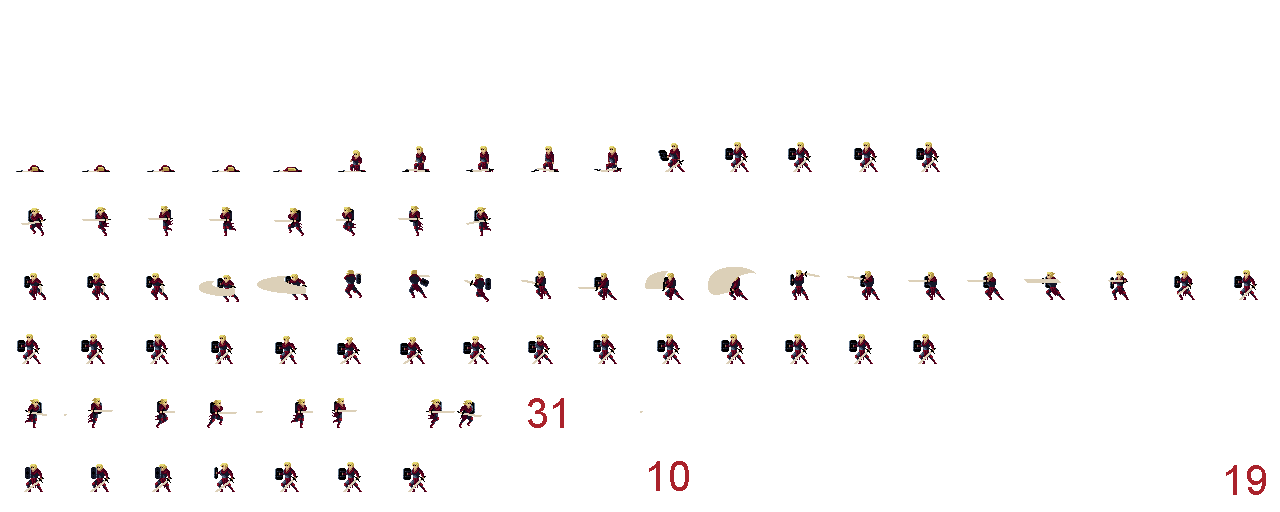
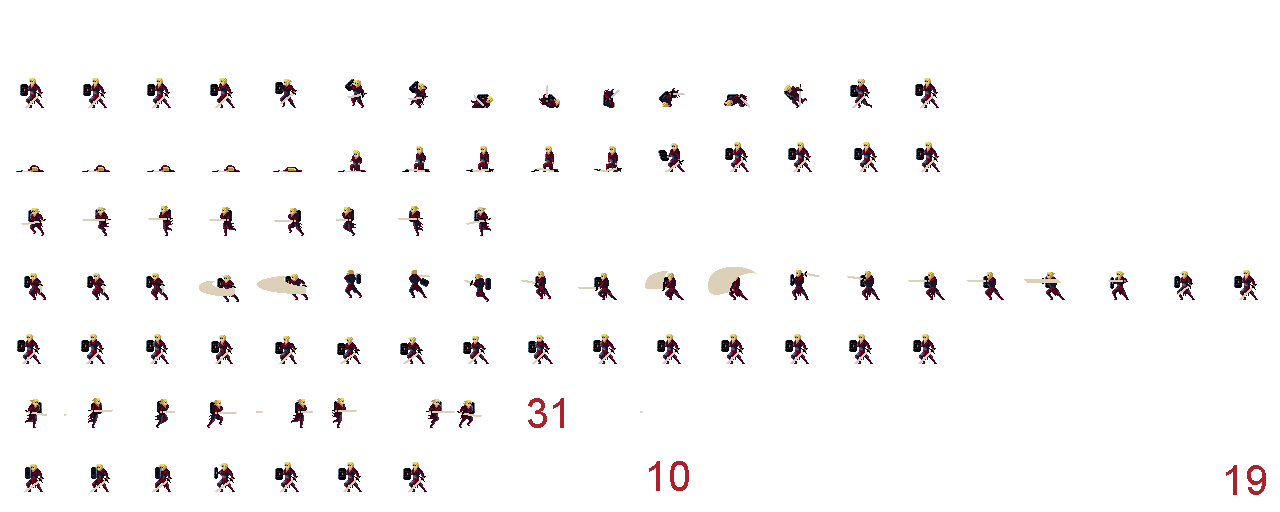
updated animations

diff --git a/game_map/character_definitions.go b/game_map/character_definitions.go
@@ -12,14 +12,11 @@ var CharacterDefinitions map[string]CharacterDefinition = map[string]CharacterDe
 			csStandby: {41, 42, 43, 44, 45, 46, 47, 48, 49, 50},
 			csMove:    {81, 82, 83, 88, 85, 86},
 			csRetreat: {21, 22, 23, 24, 25, 26},
-			csProne:   {5, 6},
-			csAttack: {
-				61, 62, 63, 64, 65, 66, 67, 68, 69, 70,
-				//71, 72, 73, 74, 75, 76, 77, 78, 79, 80,
-			},
+			csProne:   {4, 5, 6},
+			csAttack:  {61, 62, 63, 64, 65, 66, 67, 68, 69, 70},
 			csVictory: {71, 72, 73, 74, 75, 76, 77, 78, 79, 80},
-			csUse:     {10, 11, 12, 13, 14},
-			csSpecial: {15, 16, 17, 18, 19},
+			csUse:     {68, 67, 66, 65},
+			csSpecial: {134, 133, 132, 131, 130, 129, 128, 127, 126, 125, 124, 64, 63},
 			csHurt:    {113, 112, 111, 110, 109},
 			csDie:     {114, 113, 112, 111, 110, 109, 108, 107, 106, 105, 104, 103, 102, 101},
 			csDeath:   {35, 36, 37, 38},
@@ -49,12 +46,12 @@ var CharacterDefinitions map[string]CharacterDefinition = map[string]CharacterDe
 			csVictory: {46, 47, 48, 49},
 			//csSteal:   {15, 16, 17, 18, 19},
 			"steal_1":       {41, 42, 43, 44, 45},
-			"steal_2":       {46, 47, 48, 49, 50, 51, 52, 53},
-			"steal_3":       {49, 48, 43, 44, 45},
+			"steal_2":       {15, 16, 17, 18, 19},
+			"steal_3":       {20, 21, 22, 23, 24},
 			"steal_4":       {45, 44, 43, 42, 41},
-			"steal_success": {54},
-			"steal_failure": {55},
-			csUse:           {20, 21, 22, 23, 24},
+			"steal_success": {10, 11, 12, 13},
+			"steal_failure": {10, 11, 12, 14},
+			csUse:           {45, 46, 47, 48, 49},
 			csHurt:          {40, 41, 42, 43},
 			csDie:           {35, 36, 37, 38},
 			csDeath:         {35, 36, 37, 38},
